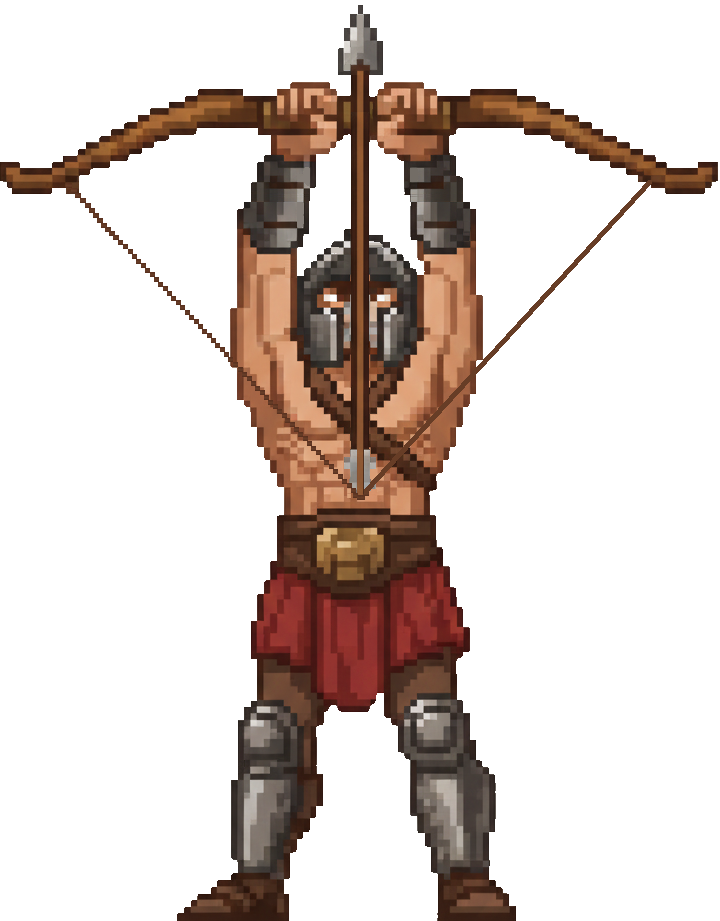
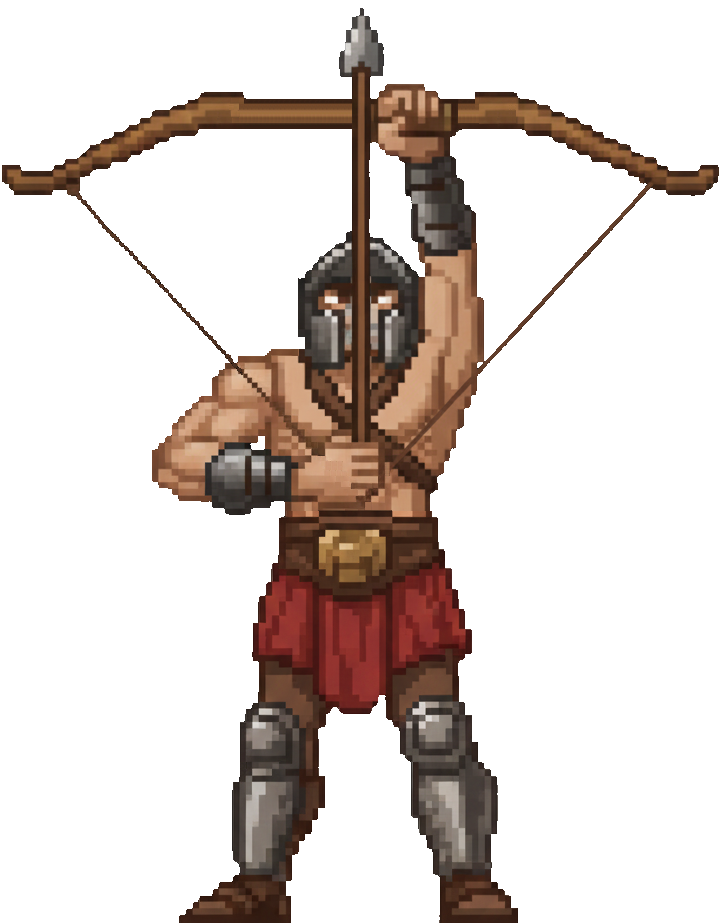
プレイヤーの画像を更新した

diff --git a/src/model/GameConstants.java b/src/model/GameConstants.java
@@ -6,14 +6,14 @@ public final class GameConstants {
 
     // 画面のサイズ
     public static final int SCREEN_WIDTH = 600;
-    public static final int SCREEN_HEIGHT = 900;
+    public static final int SCREEN_HEIGHT = 800;
 
     // ゲームの設定
     public static final int FPS = 60;
 
     // PLAYERの設定
     public static final int PLAYER_WIDTH = 100;
-    public static final int PLAYER_HEIGHT = PLAYER_WIDTH*921/720; // set to the image height width ration
+    public static final int PLAYER_HEIGHT = PLAYER_WIDTH*923/721; // set to the image height width ration
     public static final int PLAYER_SPEED = 7;
 
     // ARROWの設定
@@ -21,7 +21,7 @@ public final class GameConstants {
     public static final int ARROW_HEIGHT = ARROW_WIDTH * 367/41; // set to the image height width ration
     public static final int ARROW_SPEED = 10;
     public static final int ARROW_PER_SECOND = 4;
-    public static final int ARROW_DAMAGE = 2;
+    public static final int ARROW_DAMAGE = 1;
 
 
     // ENEMYの設定

diff --git a/src/model/Player.java b/src/model/Player.java
@@ -9,6 +9,7 @@ public class Player extends GameObject {
     private int velX = 0; // 横の移動速度
     private int velY = 0; // 縦の移動速度
     private int speed = GameConstants.PLAYER_SPEED;
+    private int level = 1;
 
     private BufferedImage image;
 
@@ -50,4 +51,9 @@ public class Player extends GameObject {
     public void setVelY(int vy) {
         this.velY = vy * speed;
     }
+
+    public int getLevel(){
+        return level;
+    }
+
 }

diff --git a/src/main/Main.java b/src/main/Main.java
@@ -5,7 +5,7 @@ import view.ResourceManager;
 
 import javax.swing.*;
 
-public class Main {
+public class  Main {
 
     public static void main(String[] args) {
         // 1. Load resources BEFORE creating the window
